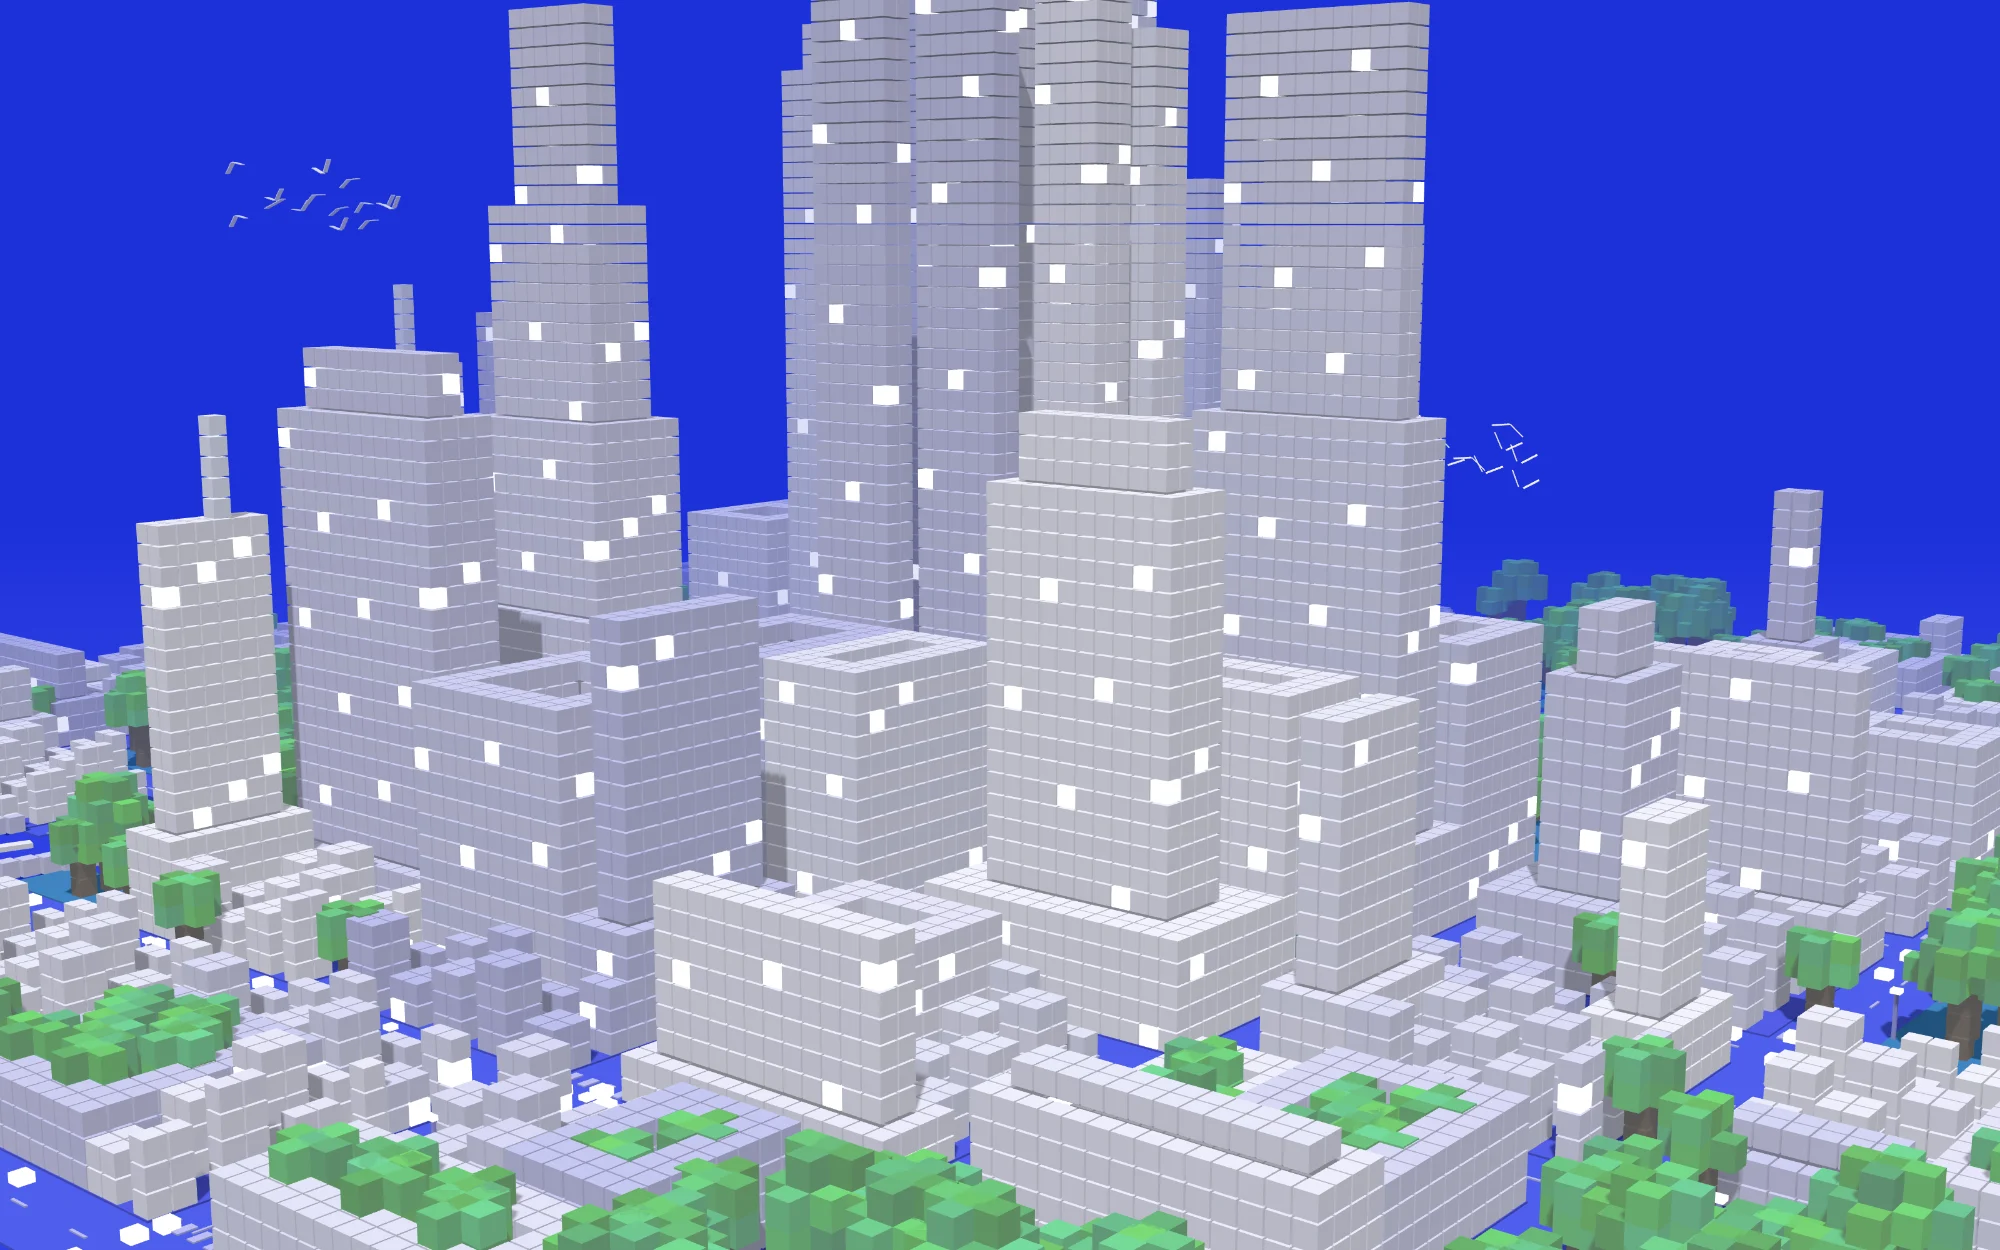
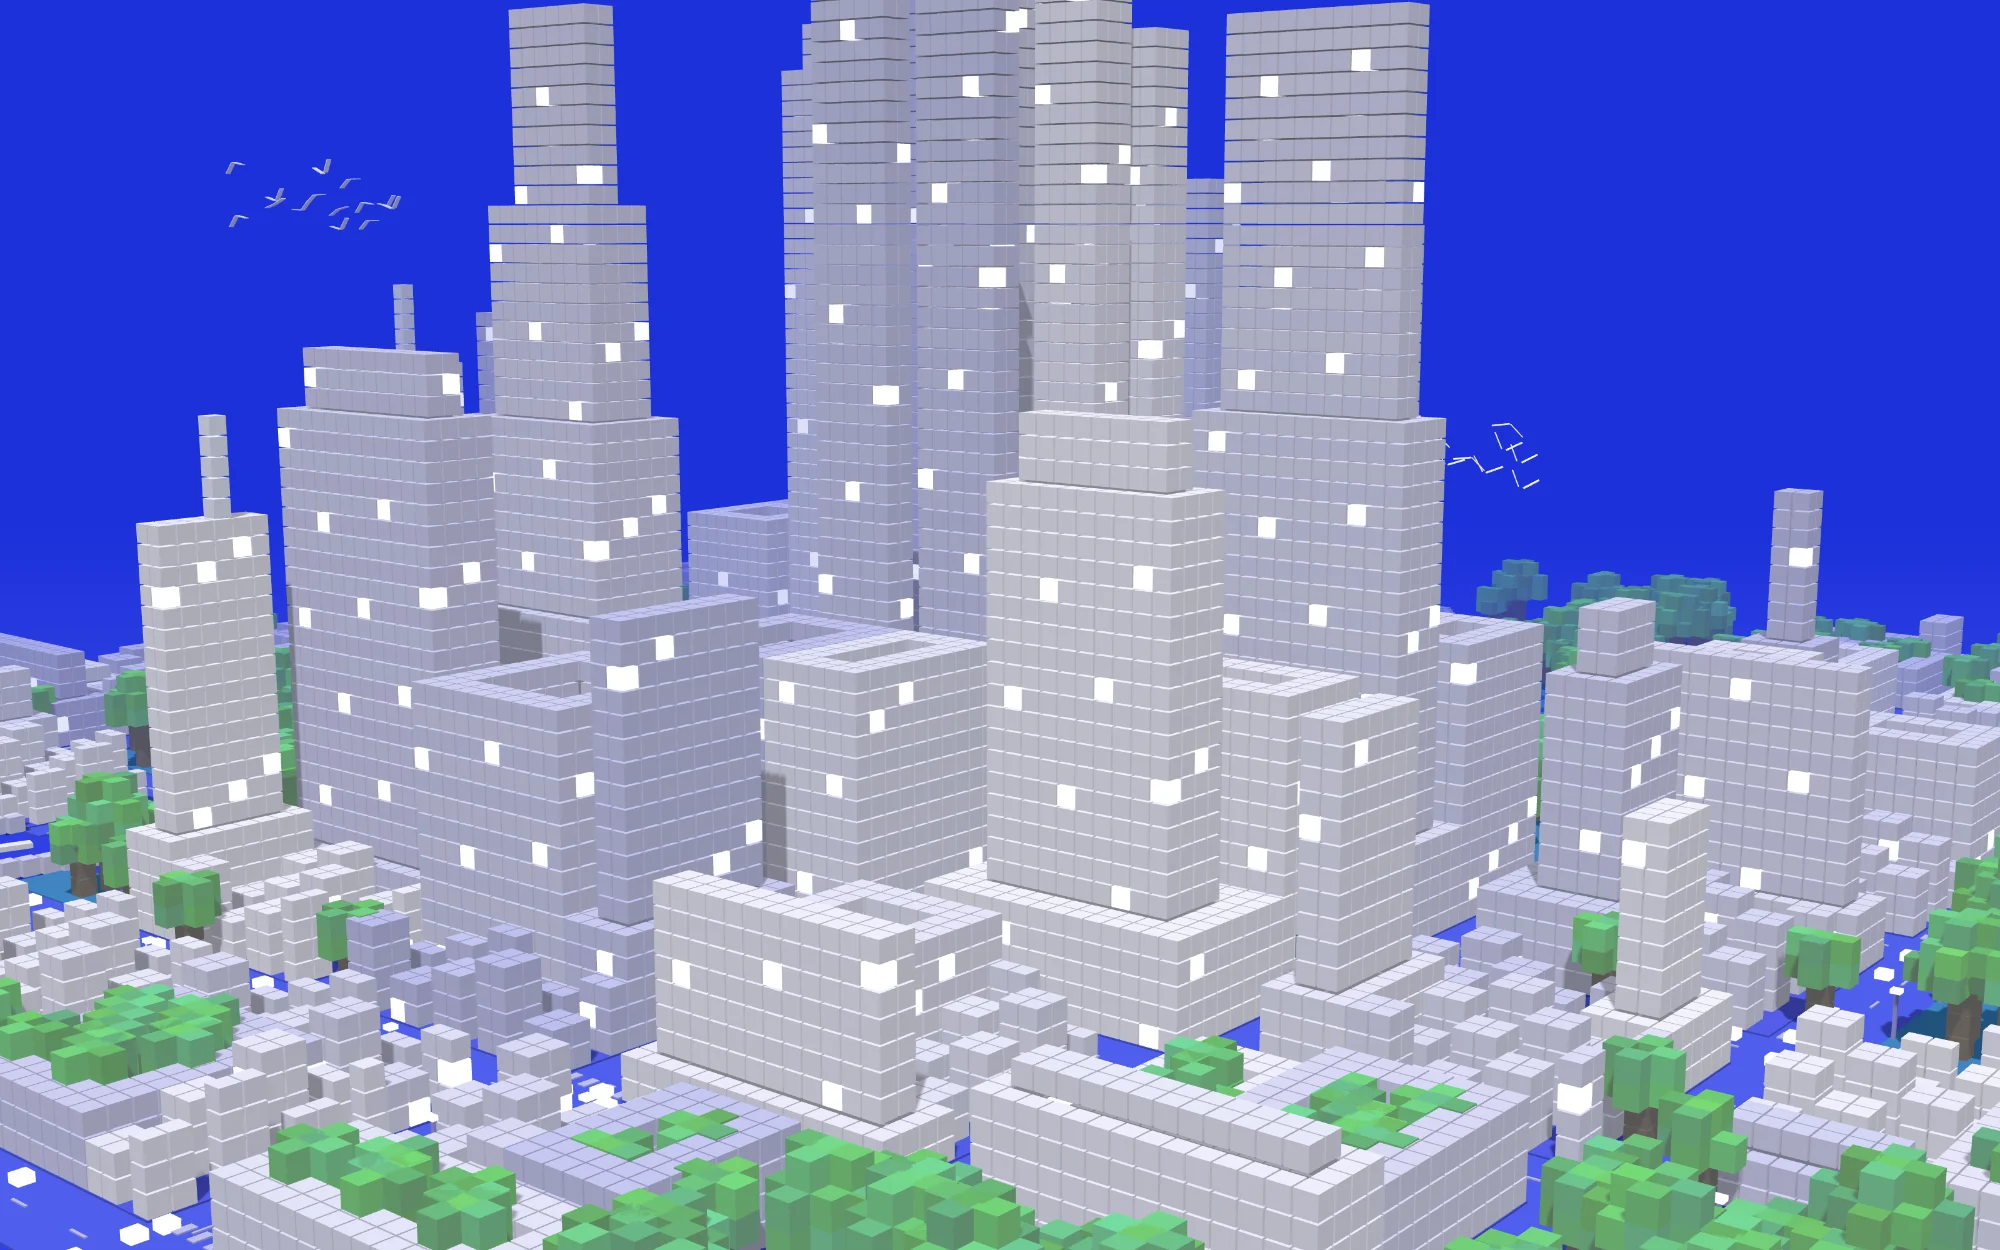
City: shorter skyline
The two supertalls are held to 64% of their height and the next tier of towers to 80%,
so the tallest building drops from 123 to 79 cubes. Stills re-rendered to match.

diff --git a/assets/city.js b/assets/city.js
@@ -115,6 +115,9 @@ function start() {
   // find the height scale that fills the cube budget
   let lo = 0.05, hi = 3;
   for (let it = 0; it < 18; it++) { const m = (lo + hi) / 2, c = lots.reduce((a, l) => a + shell(l, m, null), 0); if (c > BUDGET) hi = m; else lo = m; }
+  // the really tall towers are held down: the two supertalls to 64%, the next tier to 80%
+  const tops = lots.filter((l) => l.type !== 'low' && l.type !== 'court'), hmax = Math.max(...tops.map((l) => l.h));
+  tops.forEach((l) => { if (l.h > hmax * 0.7) l.h *= 0.64; else if (l.h > hmax * 0.48) l.h *= 0.8; });
   const cubes = [];
   lots.forEach((l) => shell(l, lo, cubes));
   const nBuild = cubes.length;
